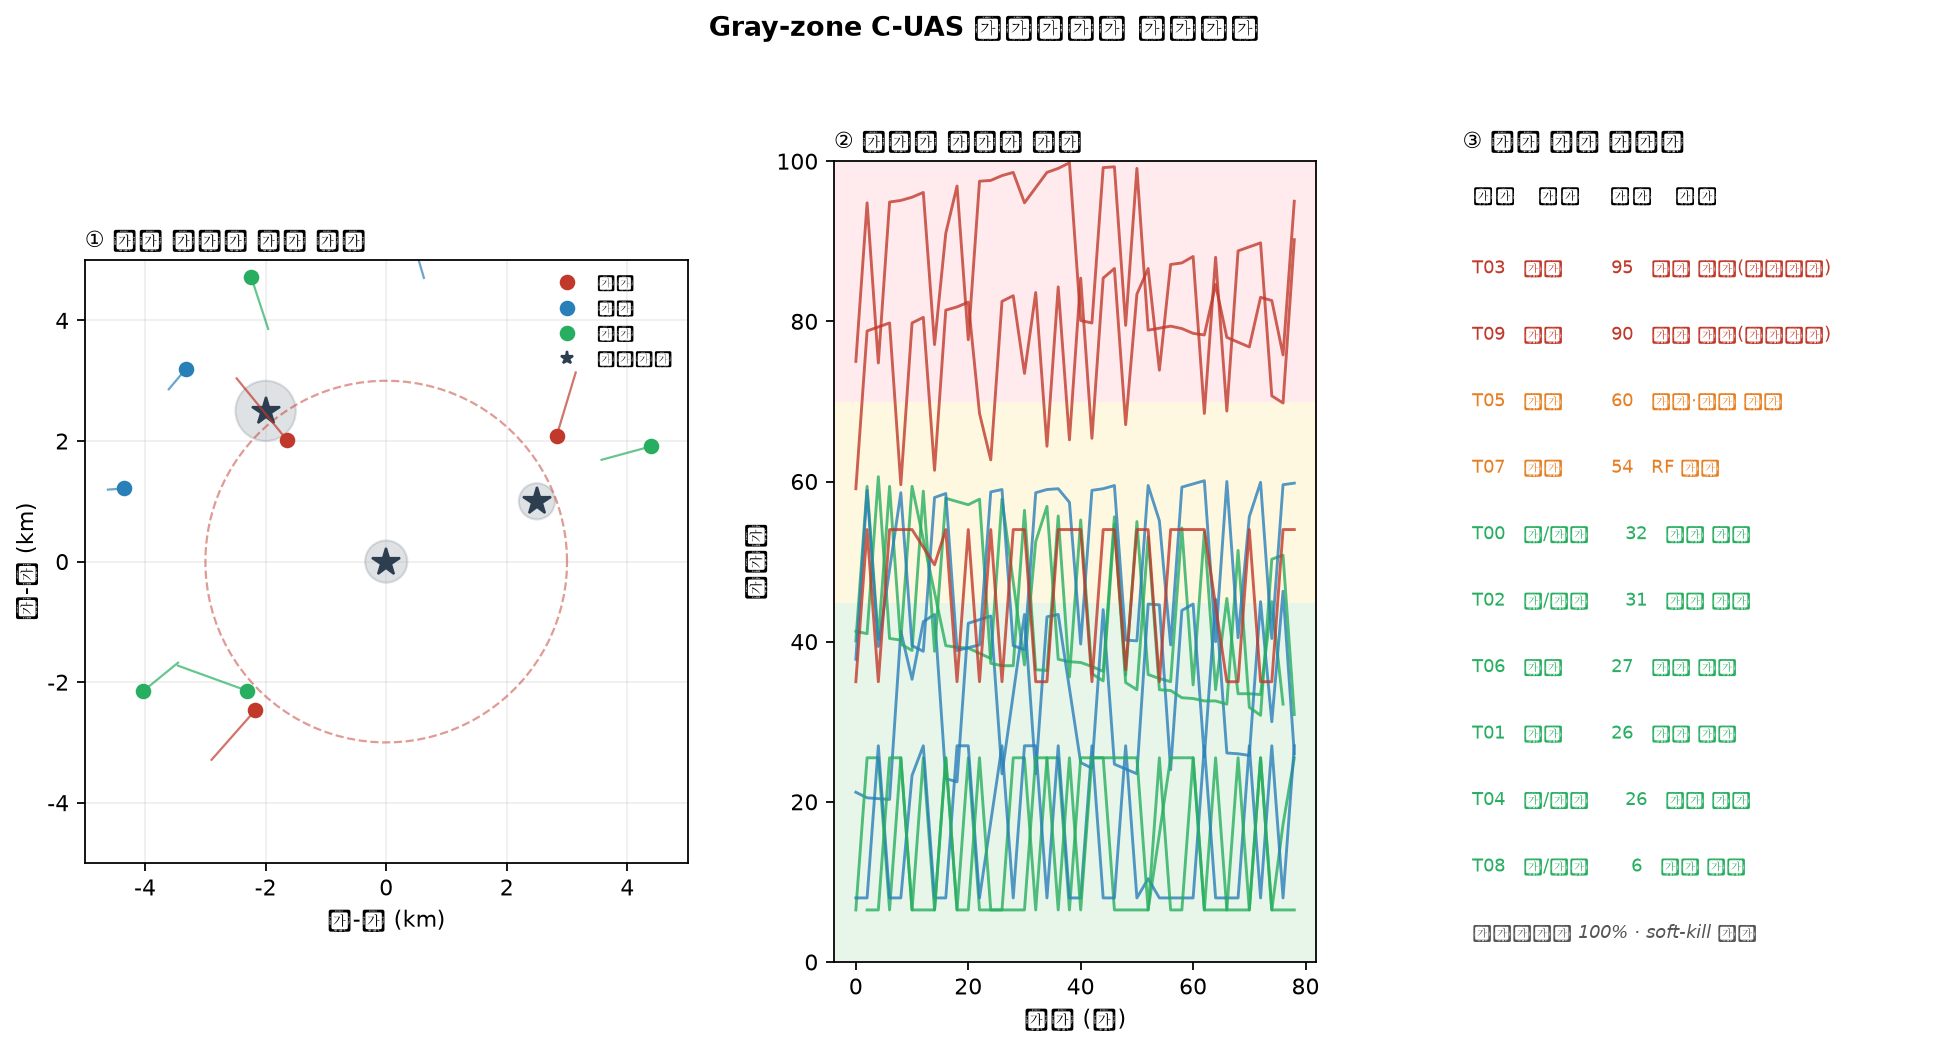
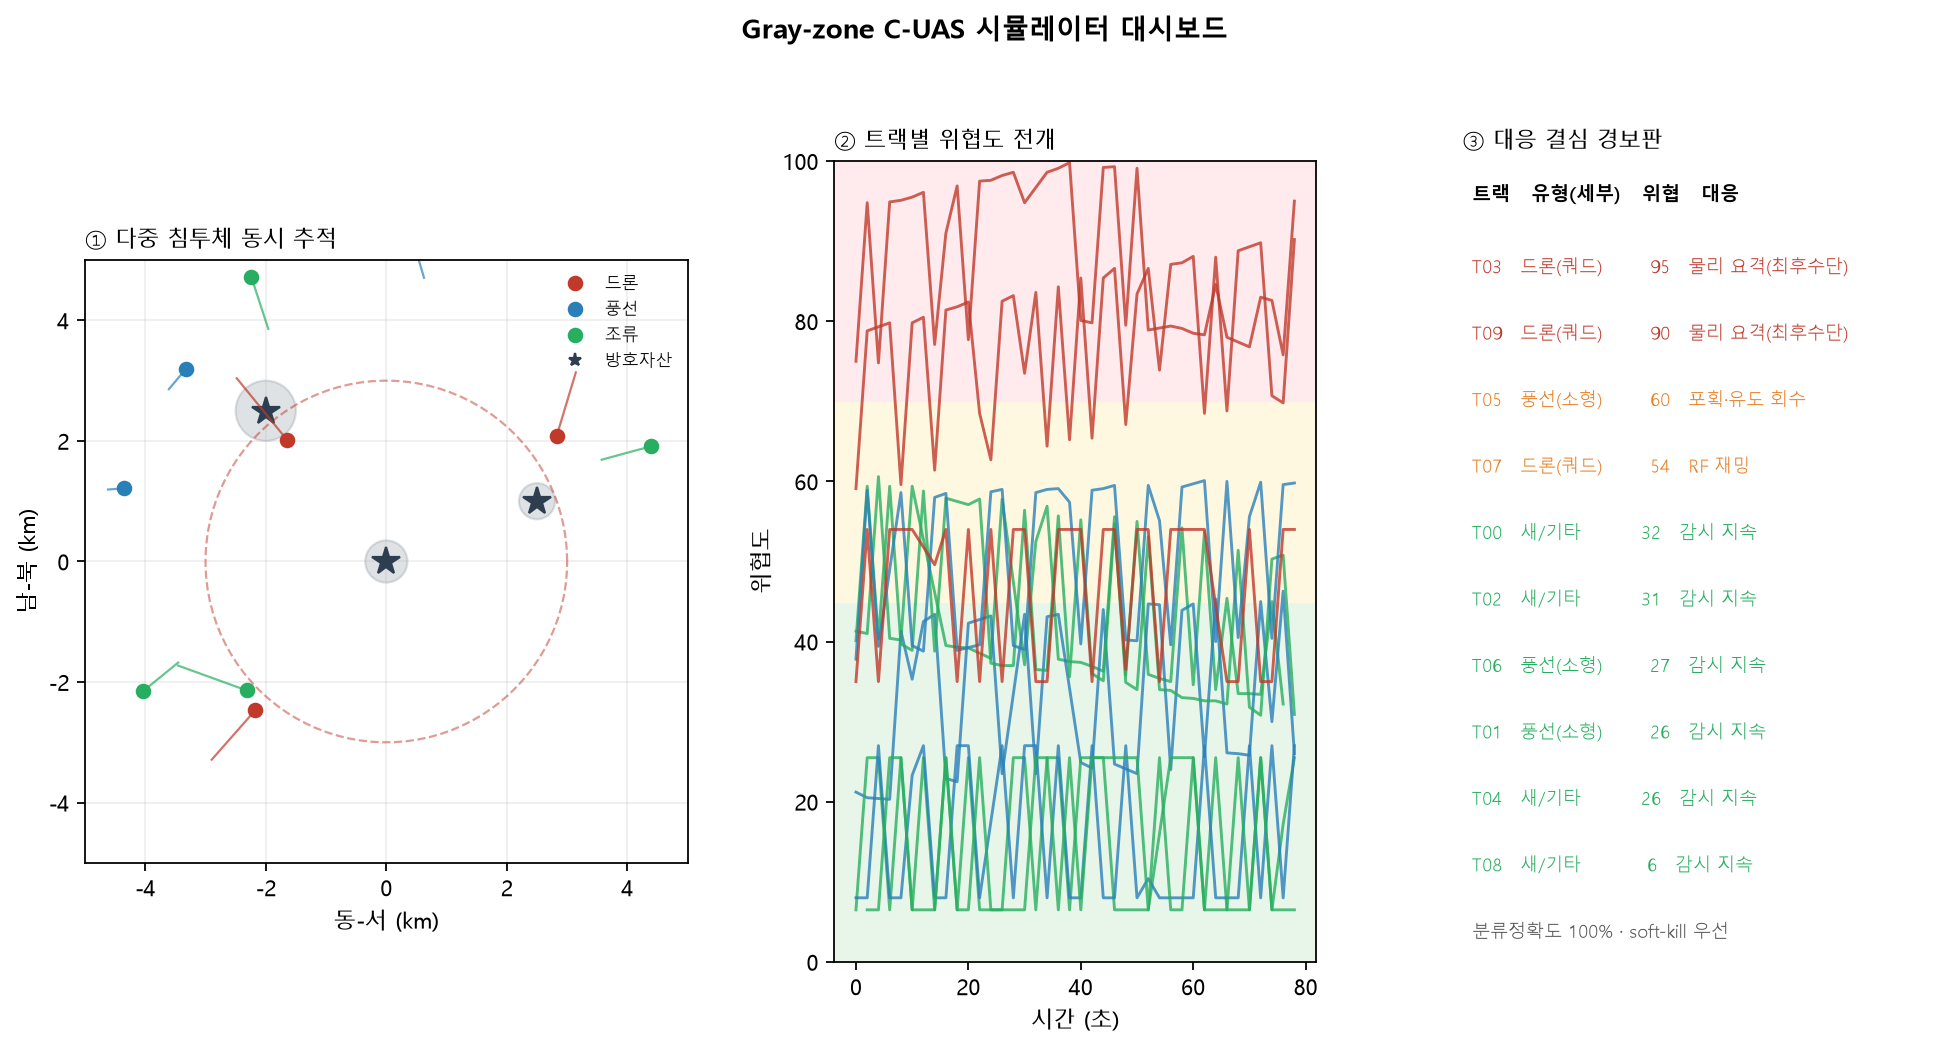
drone subtype 수정

diff --git a/cuas/dashboard.py b/cuas/dashboard.py
@@ -7,13 +7,16 @@ from . import engine
 
 _TCOL = {"drone": "#c0392b", "balloon": "#2980b9", "bird": "#27ae60"}
 _TNAME = {"drone": "드론", "balloon": "풍선", "bird": "조류"}
+_SUBTYPE_ABBR = {"쿼드콥터": "쿼드", "고정익": "고정익", "소형풍선": "소형", "대형/오물풍선": "대형"}
 
 
 def _set_korean_font():
     import matplotlib.font_manager as fm, os
     for p in ["/System/Library/Fonts/AppleSDGothicNeo.ttc",
-              "/usr/share/fonts/truetype/nanum/NanumGothic.ttf"]:
+              "/usr/share/fonts/truetype/nanum/NanumGothic.ttf",
+              "C:/Windows/Fonts/malgun.ttf"]:
         if os.path.exists(p):
+            fm.fontManager.addfont(p)
             mpl.rcParams["font.family"] = fm.FontProperties(fname=p).get_name()
             break
     mpl.rcParams["axes.unicode_minus"] = False
@@ -55,10 +58,12 @@ def render(scenario, rows, final, out_path="dashboard.png"):
     # (C) 경보판
     ax = fig.add_subplot(gs[2]); ax.axis("off"); ax.set_title("③ 대응 결심 경보판", fontsize=10, loc="left")
     fin = pd.DataFrame(final).T.sort_values("threat", ascending=False); y = 0.95
-    ax.text(0.02, y, "트랙   유형    위협   대응", fontsize=8.5, fontweight="bold"); y -= 0.09
+    ax.text(0.02, y, "트랙   유형(세부)   위협   대응", fontsize=8.5, fontweight="bold"); y -= 0.09
     for tid, r in fin.iterrows():
         col = "#c0392b" if r.kill == "hard" else ("#e67e22" if r.threat >= 45 else "#27ae60")
-        ax.text(0.02, y, f"{tid}   {r.pred:5}  {float(r.threat):5.0f}   {r.reco[:13]}", fontsize=8, color=col)
+        sub = _SUBTYPE_ABBR.get(r.get("subtype", ""), "")
+        label = f"{r.pred}({sub})" if sub else r.pred
+        ax.text(0.02, y, f"{tid}   {label:9}  {float(r.threat):5.0f}   {r.reco[:11]}", fontsize=8, color=col)
         y -= 0.083
     corr = sum(1 for v in final.values() if v["pred"] == kr.get(v["truth"], "")) / len(final)
     ax.text(0.02, 0.03, f"분류정확도 {corr*100:.0f}% · soft-kill 우선", fontsize=8, style="italic", color="#555")

diff --git a/cuas/pipeline.py b/cuas/pipeline.py
@@ -55,9 +55,11 @@ def run(scenario, mobile=False, platform_speed=0.0, pop_density=0.5):
             T, d = engine.assess_threat(pos[0], pos[1], ttype, p_uav, prev, engine_dt_min := (2.0 / 60))
             resp = engine.recommend(T, ttype, pop_density)
             rows.append(dict(step=step, t=obs["t"], tid=tgt["tid"], truth=tgt["truth"],
+                             subtype=tgt.get("subtype", ""),
                              x=pos[0], y=pos[1], pred=ttype, p_uav=p_uav,
                              threat=T, d_asset=d, reco=resp["label"], kill=resp["kill"]))
-            final[tgt["tid"]] = dict(truth=tgt["truth"], pred=ttype, threat=T,
+            final[tgt["tid"]] = dict(truth=tgt["truth"], subtype=tgt.get("subtype", ""),
+                                     pred=ttype, threat=T,
                                      reco=resp["label"], kill=resp["kill"])
     return rows, final
 

diff --git a/run.py b/run.py
@@ -42,7 +42,7 @@ def main():
 
     print(f"침투체 {len(scen)}개 | 모드: {'이동형' if args.mobile else '고정형'} | 분류정확도 {acc*100:.0f}%")
     fin = pd.DataFrame(final).T.sort_values("threat", ascending=False)
-    print(fin[["truth", "pred", "threat", "reco", "kill"]].to_string())
+    print(fin[["truth", "subtype", "pred", "threat", "reco", "kill"]].to_string())
 
     pd.DataFrame(rows).to_csv("simulation_timeline.csv", index=False)
     dashboard.render(scen, rows, final, args.out)